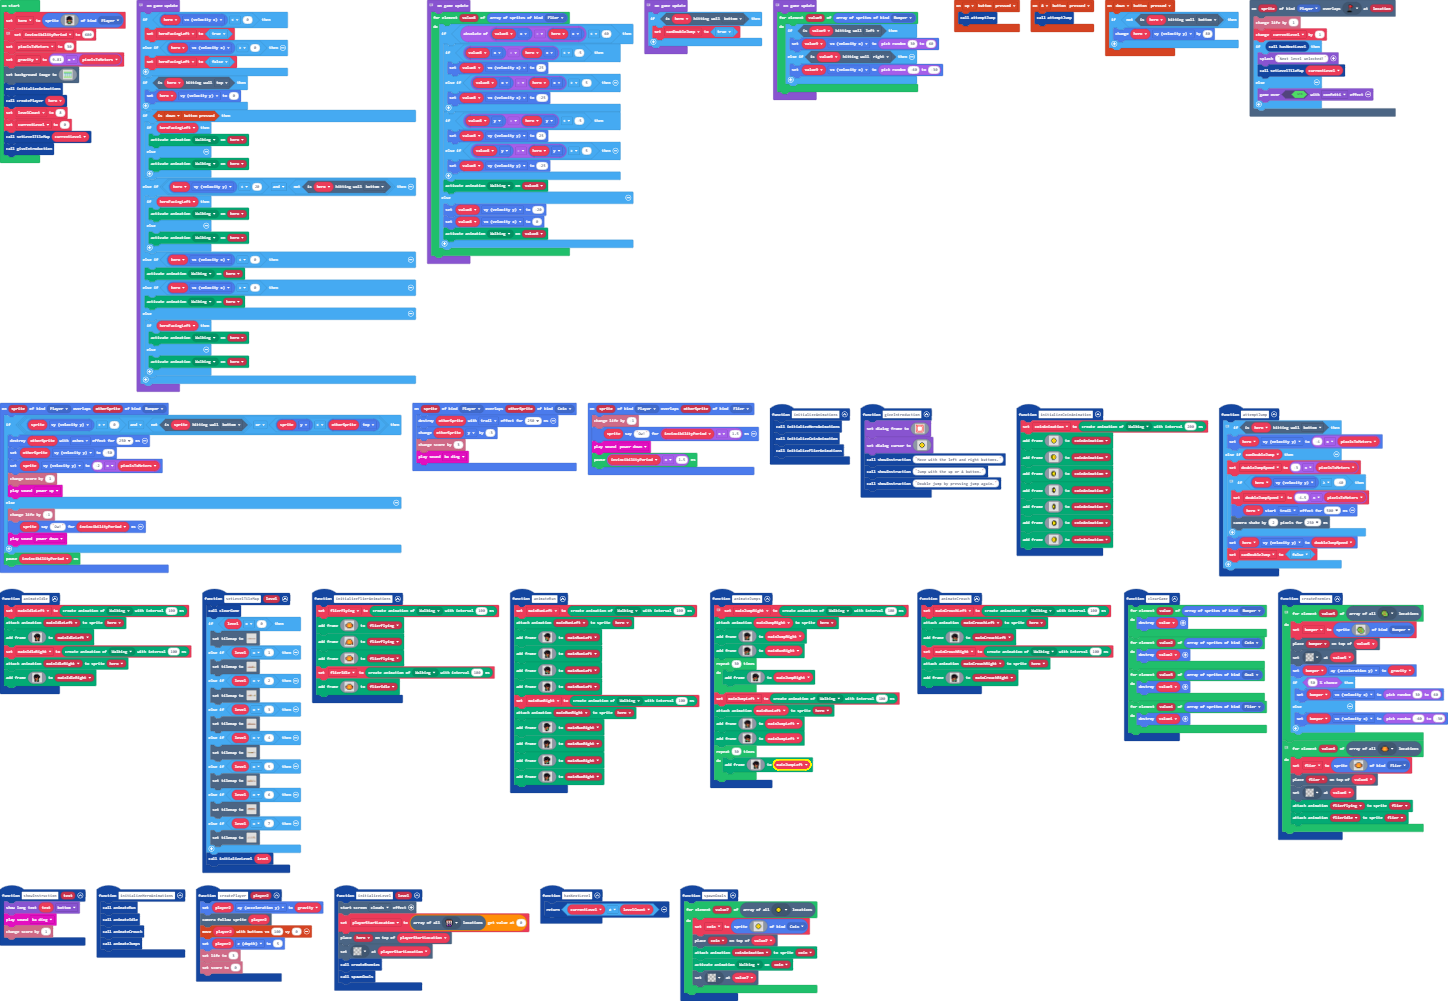
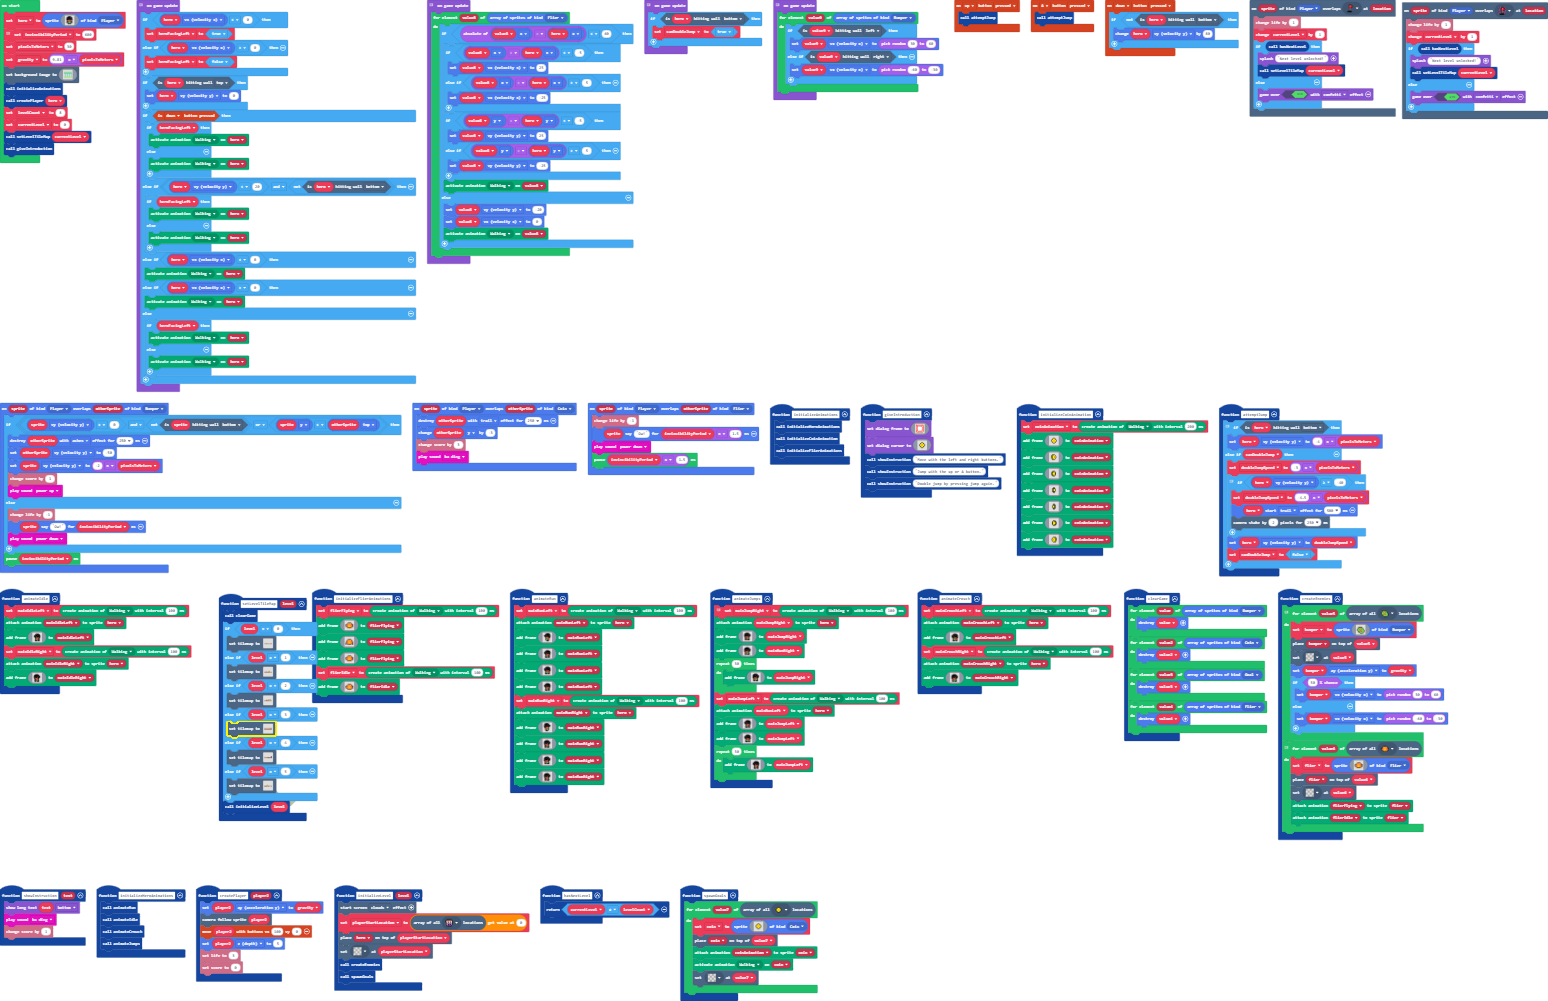
Update main.blocks, main.ts, tilemap.g.jres, tilemap.g.ts

Changed region(s): [[0.0, 0.0, 1.0, 1.0], [0.2486, 0.4955, 0.2797, 0.5574]]

diff --git a/tilemap.g.ts b/tilemap.g.ts
@@ -5,8 +5,6 @@ namespace myTiles {
     //% fixedInstance jres blockIdentity=images._tile
     export const tile0 = image.ofBuffer(hex``);
     //% fixedInstance jres blockIdentity=images._tile
-    export const tile1 = image.ofBuffer(hex``);
-    //% fixedInstance jres blockIdentity=images._tile
     export const tile2 = image.ofBuffer(hex``);
     //% fixedInstance jres blockIdentity=images._tile
     export const tile3 = image.ofBuffer(hex``);
@@ -18,6 +16,12 @@ namespace myTiles {
     export const tile6 = image.ofBuffer(hex``);
     //% fixedInstance jres blockIdentity=images._tile
     export const tile7 = image.ofBuffer(hex``);
+    //% fixedInstance jres blockIdentity=images._tile
+    export const tile8 = image.ofBuffer(hex``);
+    //% fixedInstance jres blockIdentity=images._tile
+    export const tile1 = image.ofBuffer(hex``);
+    //% fixedInstance jres blockIdentity=images._tile
+    export const tile10 = image.ofBuffer(hex``);
 
     helpers._registerFactory("tilemap", function(name: string) {
         switch(helpers.stringTrim(name)) {
@@ -43,50 +47,6 @@ namespace myTiles {
 2 . . . . . . . . . 2 . . 2 . . . . . . . 2 . . . . . . . . . . 
 2 2 2 2 2 2 2 2 2 2 2 . . 2 2 2 2 2 2 2 2 2 2 2 2 2 2 2 2 2 2 2 
 `, [myTiles.tile0,myTiles.tile1,myTiles.tile2,myTiles.tile3,myTiles.tile4,myTiles.tile5,myTiles.tile6], TileScale.Sixteen);
-            case "level_1":
-            case "level_1":return tiles.createTilemap(hex`2000080000000000000000000000000000000000000000060000000000000000060606060000000000000000000000000000000000000000000000000000000000000000000000000000000000000000000000000000000000000000000000000000000000000000000000000000020202020202000000000000000000000000000000000000000000000000020002060303030000000000000000000000000000030303000000000002000002000200030303000000000000000000000000000003030300040002000200000000020003030300000000000000000005000000000303030101010201020101010102010101010101010101010101010101010101010101`, img`
-. . . . . . . . . . . . . . . . . . . . . . . . . . . . . . . . 
-. . . . . . . . . . . . . . . . . . . . . . . . . . . . . . . . 
-. . . . . . . . . . . . . . . . . . . . . . . . . . . . . . . . 
-. . . . . . . . . . 2 2 2 2 2 2 . . . . . . . . . . . . . . . . 
-. . . . . . . . 2 . 2 . . . . . . . . . . . . . . . . . . . . . 
-. . . . . 2 . . 2 . 2 . . . . . . . . . . . . . . . . . . . . . 
-. . . 2 . 2 . . . . 2 . . . . . . . . . . . . . . . . . . . . . 
-2 2 2 2 2 2 2 2 2 2 2 2 2 2 2 2 2 2 2 2 2 2 2 2 2 2 2 2 2 2 2 2 
-`, [myTiles.tile0,myTiles.tile2,myTiles.tile3,myTiles.tile5,myTiles.tile6,myTiles.tile1,myTiles.tile7], TileScale.Sixteen);
-            case "level_2":
-            case "level_2":return tiles.createTilemap(hex`2000080000000000000000000000000300000007000000070000070007000000000000000000000000000000000000030000000000000000000000000000000000000000000000000000000300000003000000000000000000000000000000000000000000000000000300030000000000000000000000000000000000000000000000000000000303030303030303030303030303030303030303030303030303030300000000030000050000050005000005000500000500050000000500000005000000060303010000040004000000040000000000040000000400000004000000030202020302020202020202020202020202020202020202020202020202020203`, img`
-. . . . . . . . . . . 2 . . . . . . . . . . . . . . . . . . . . 
-. . . . . . . . . . . 2 . . . . . . . . . . . . . . . . . . . . 
-. . . . . . . 2 . . . 2 . . . . . . . . . . . . . . . . . . . . 
-. . . . . 2 . 2 . . . . . . . . . . . . . . . . . . . . . . . . 
-. . . 2 2 2 2 2 2 2 2 2 2 2 2 2 2 2 2 2 2 2 2 2 2 2 2 2 2 2 2 . 
-. . . 2 . . . . . . . . . . . . . . . . . . . . . . . . . . . . 
-. . 2 2 . . . . . . . . . . . . . . . . . . . . . . . . . . . 2 
-2 2 2 2 2 2 2 2 2 2 2 2 2 2 2 2 2 2 2 2 2 2 2 2 2 2 2 2 2 2 2 2 
-`, [myTiles.tile0,myTiles.tile1,myTiles.tile2,myTiles.tile3,myTiles.tile4,myTiles.tile5,myTiles.tile6,myTiles.tile7], TileScale.Sixteen);
-            case "level_3":
-            case "level_3":return tiles.createTilemap(hex`2000080000070700000000000000000000000000000000000000000000000000000000000000000000000000000000000000000000000000000000000000000000000000000000000000000000000000000000000000000000000000000000000000000000000000000000000000000000000000000000000000000005050500000000000000000000050005000000000005050000030303030003000000000000000000000000000000000000050505000000050305050505000300000000000000000000060003040404040404030404040404030404040404030000000000000100000202020302020202020203020202020203020202020203020202020202020202`, img`
-. . . . . . . . . . . . . . . . . . . . . . . . . . . . . . . . 
-. . . . . . . . . . . . . . . . . . . . . . . . . . . . . . . . 
-. . . . . . . . . . . . . . . . . . . . . . . . . . . . . . . . 
-. . . . . . . . . . . . . . . . . . . . . . . . . . . . . . . . 
-. . . . . . . . . . . . . . . . . 2 2 2 2 . 2 . . . . . . . . . 
-. . . . . . . . . . . . . . . . 2 . . . . . 2 . . . . . . . . . 
-. . . 2 . . . . . . 2 . . . . . 2 . . . . . 2 . . . . . . . . . 
-2 2 2 2 2 2 2 2 2 2 2 2 2 2 2 2 2 2 2 2 2 2 2 2 2 2 2 2 2 2 2 2 
-`, [myTiles.tile0,myTiles.tile1,myTiles.tile2,myTiles.tile3,myTiles.tile4,myTiles.tile5,myTiles.tile6,myTiles.tile7], TileScale.Sixteen);
-            case "level_4":
-            case "level_4":return tiles.createTilemap(hex`2000080000070700000000000000000000000000000000000707000000000000000000000000000000000000000000000505000000000000000000000000000000000000000000000000000000000000050300000000000000000000000000000000000000000000000000000005050003030000000000000000050505050000000000000000000000050005000303000005050000030303030000000000000000000003030000000003000300050505000000050300000000000000000000000000000303060003000305030400030400000003030004000004000004000000000100030302020302030203020203020202020303020202020202020202020202020203`, img`
-. . . . . . . . . . . . . . . . . . . . . . . . . . . . . . . . 
-. . . . . . . . . . . . . . . . . . . . . . . . . . . . . . . . 
-. . . . . . . . . . . . . 2 . . . . . . . . . . . . . . . . . . 
-. . . . . . . . . . . . 2 2 . . . . . . . . . . . . . . . . . . 
-. . . . . . . . . 2 2 . . . . . . 2 2 2 2 . . . . . . . . . . 2 
-2 . . . . 2 . 2 . . . . . . . . 2 . . . . . . . . . . . . . . 2 
-2 . . 2 . 2 . 2 . . 2 . . . . 2 2 . . . . . . . . . . . . . . 2 
-2 2 2 2 2 2 2 2 2 2 2 2 2 2 2 2 2 2 2 2 2 2 2 2 2 2 2 2 2 2 2 2 
-`, [myTiles.tile0,myTiles.tile1,myTiles.tile2,myTiles.tile3,myTiles.tile4,myTiles.tile5,myTiles.tile6,myTiles.tile7], TileScale.Sixteen);
             case "level_5":
             case "level_5":return tiles.createTilemap(hex`27000800000000000606060606060606060606060606060606060606060606060606060606000003000000000003030303030303030303030303030303030303030303030303030303030303000003000000000000000000000000000000000000000000000000000000000000000000000000000003000000000000000006060606030400000000000400000004000004000004000004000000000003000000000000000003030303030303030303030303030303030303030303030303030303030303000000030000000000000000000000000000000000000000000000000000000000000000000000000000030500000004040000000000000406060606060604000606060600000000000000000000000100030202020202020202020202020202020202020202020202020202020202020202020202020202`, img`
 ...................................2...
@@ -109,6 +69,88 @@ namespace myTiles {
 2 . . . . . . . . . . . . . . . . . . . . . . . . . . . . . . . . . . . . 
 2 2 2 2 2 2 2 2 2 2 2 2 2 2 2 2 2 2 2 2 2 2 2 2 2 2 2 2 2 2 2 2 2 2 2 2 2 
 `, [myTiles.tile0,myTiles.tile1,myTiles.tile2,myTiles.tile3,myTiles.tile6,myTiles.tile5,myTiles.tile4,myTiles.tile7], TileScale.Sixteen);
+            case "level_4":
+            case "level_4":return tiles.createTilemap(hex`2000080000000000000000000000000000000000000000000000000000000000000000000000000000000000000000000505000000000000000000000000000000000000000000000000000000000000050300000000000000000000000000000000000000000000000000000005050003030000000000000000050505050000000000000000000000050005000303000005050000030303030000000000000000000003030000000003000300050505000000050300000000000000000000000000000303060003000305030400030400000003030004000004000004000000000100030302020302030203020203020202020303020202020202020202020202020203`, img`
+. . . . . . . . . . . . . . . . . . . . . . . . . . . . . . . . 
+. . . . . . . . . . . . . . . . . . . . . . . . . . . . . . . . 
+. . . . . . . . . . . . . 2 . . . . . . . . . . . . . . . . . . 
+. . . . . . . . . . . . 2 2 . . . . . . . . . . . . . . . . . . 
+. . . . . . . . . 2 2 . . . . . . 2 2 2 2 . . . . . . . . . . 2 
+2 . . . . 2 . 2 . . . . . . . . 2 . . . . . . . . . . . . . . 2 
+2 . . 2 . 2 . 2 . . 2 . . . . 2 2 . . . . . . . . . . . . . . 2 
+2 2 2 2 2 2 2 2 2 2 2 2 2 2 2 2 2 2 2 2 2 2 2 2 2 2 2 2 2 2 2 2 
+`, [myTiles.tile0,myTiles.tile1,myTiles.tile2,myTiles.tile3,myTiles.tile4,myTiles.tile5,myTiles.tile6], TileScale.Sixteen);
+            case "level_1":
+            case "level_1":return tiles.createTilemap(hex`2000080000000000000000000000000000000000000000000000000000000000000000000000000000060000000000000000000000000000000000000000000000000000000000000000000000000000000000000202020202020202020202020200000000000000000000000000020202020000000200000000000000000000000000000000000000000000020002030303000000020000000000030303000000000000000000000002030002000203030300020002000000000003000300000000000000040002000203000000020303030002060206000600000305030006000600000101010201020101010102010101010101020101010101010101010101010101`, img`
+. . . . . . . . . . . . . . . . . . . . . . . . . . . . . . . . 
+. . . . . . . . . . . . . . . . . . . . . . . . . . . . . . . . 
+. . . . . . . . . . . . . . . . 2 2 2 2 2 2 2 2 2 2 2 2 2 . . . 
+. . . . . . . . . . 2 2 2 2 . . . 2 . . . . . . . . . . . . . . 
+. . . . . . . . 2 . 2 . . . . . . 2 . . . . . . . . . . . . . . 
+. . . . . 2 . . 2 . 2 . . . . 2 . 2 . . . . . . . . . . . . . . 
+. . . 2 . 2 . . . . 2 . . . . 2 . 2 . . . . . . . . . . . . . . 
+2 2 2 2 2 2 2 2 2 2 2 2 2 2 2 2 2 2 2 2 2 2 2 2 2 2 2 2 2 2 2 2 
+`, [myTiles.tile0,myTiles.tile2,myTiles.tile3,myTiles.tile5,myTiles.tile6,myTiles.tile1,myTiles.tile4], TileScale.Sixteen);
+            case "level_3":
[1 lines of base64/hex data omitted]
+. . . . . . . . . . . . . . . . . . . . . . . . . . . . . . . . 
+. . . . . . . . . . . . . . . . . . . . . . . . . . . . . . . . 
+. . . . . . . . . . . . . . . . . . . . . . . . . . . . . . . . 
+. . . . . . . . . . . . . . . . . . . . . . . . . . . . . . . . 
+. . . . . . . . . . . . . . . . . 2 2 2 2 . 2 . . . . . . . . . 
+. . . . . . . . . . . . . 2 2 . 2 . . . . . 2 . . . . . . . . . 
+. . . 2 . . . . . . 2 . . . . . 2 . . . . . 2 . . . . . . . . 2 
+2 2 2 2 2 2 2 2 2 2 2 2 2 2 2 2 2 2 2 2 2 2 2 2 2 2 2 2 2 2 2 2 
+`, [myTiles.tile0,myTiles.tile2,myTiles.tile3,myTiles.tile4,myTiles.tile5,myTiles.tile6,myTiles.tile7,sprites.dungeon.darkGroundNorthWest1,sprites.dungeon.darkGroundSouthEast1,sprites.dungeon.floorLight5,sprites.dungeon.floorLight4,sprites.dungeon.floorLightMoss,sprites.dungeon.doorClosedNorth,myTiles.tile8,myTiles.tile10], TileScale.Sixteen);
+            case "level_2":
+            case "level_2":return tiles.createTilemap(hex`2000080000000000000000000000000300000007000000000000000007000000000000000003030000000000000000030000000000000000000000000000000005030000000000000000000300000003000000000000000000000000000000000503000000000000000300030000000000000003050505030505030503050503050300000000000303030303030303030303030303030303030303030303030303030300000000030000050000050005000005000500000500050000000500000005000000060303010000040004000000040003000400030400030403000403000000030202020302020202020202020202020302020203020203020302020302020203`, img`
+. . . . . . . . . . . 2 . . . . . . . . . . . . . . . . . . . . 
+. 2 2 . . . . . . . . 2 . . . . . . . . . . . . . . . . . 2 . . 
+. . . . . . . 2 . . . 2 . . . . . . . . . . . . . . . . . 2 . . 
+. . . . . 2 . 2 . . . . . . . 2 . . . 2 . . 2 . 2 . . 2 . 2 . . 
+. . . 2 2 2 2 2 2 2 2 2 2 2 2 2 2 2 2 2 2 2 2 2 2 2 2 2 2 2 2 . 
+. . . 2 . . . . . . . . . . . . . . . . . . . . . . . . . . . . 
+. . 2 2 . . . . . . . . . . . 2 . . . 2 . . 2 . 2 . . 2 . . . 2 
+2 2 2 2 2 2 2 2 2 2 2 2 2 2 2 2 2 2 2 2 2 2 2 2 2 2 2 2 2 2 2 2 
+`, [myTiles.tile0,myTiles.tile1,myTiles.tile2,myTiles.tile3,myTiles.tile4,myTiles.tile5,myTiles.tile6,myTiles.tile7], TileScale.Sixteen);
+            case "level1":
+            case "level1":return tiles.createTilemap(hex`1000100000000000000000000000000000000000000000000000000000000000000000000000000000000000000000000000000000000000000000000000000000000000000000000000000000000000000000000000000000000000000000000000000000000000000000000000000000000000000000000000000000000000000000000000000000000000000000000000000000000000000000000000000000000000000000000000000000000000000000000000000000000000000000000000000000000000000000000000000000000000000000000000000000000000000000000000000000000000000000000000000000000000000000000000000000000000`, img`
+. . . . . . . . . . . . . . . . 
+. . . . . . . . . . . . . . . . 
+. . . . . . . . . . . . . . . . 
+. . . . . . . . . . . . . . . . 
+. . . . . . . . . . . . . . . . 
+. . . . . . . . . . . . . . . . 
+. . . . . . . . . . . . . . . . 
+. . . . . . . . . . . . . . . . 
+. . . . . . . . . . . . . . . . 
+. . . . . . . . . . . . . . . . 
+. . . . . . . . . . . . . . . . 
+. . . . . . . . . . . . . . . . 
+. . . . . . . . . . . . . . . . 
+. . . . . . . . . . . . . . . . 
+. . . . . . . . . . . . . . . . 
+. . . . . . . . . . . . . . . . 
+`, [myTiles.transparency16], TileScale.Sixteen);
+            case "level2":
+            case "level2":return tiles.createTilemap(hex`1000100000000000000000000000000000000000000000000000000000000000000000000000000000000000000000000000000000000000000000000000000000000000000000000000000000000000000000000000000000000000000000000000000000000000000000000000000000000000000000000000000000000000000000000000000000000000000000000000000000000000000000000000000000000000000000000000000000000000000000000000000000000000000000000000000000000000000000000000000000000000000000000000000000000000000000000000000000000000000000000000000000000000000000000000000000000000`, img`
+. . . . . . . . . . . . . . . . 
+. . . . . . . . . . . . . . . . 
+. . . . . . . . . . . . . . . . 
+. . . . . . . . . . . . . . . . 
+. . . . . . . . . . . . . . . . 
+. . . . . . . . . . . . . . . . 
+. . . . . . . . . . . . . . . . 
+. . . . . . . . . . . . . . . . 
+. . . . . . . . . . . . . . . . 
+. . . . . . . . . . . . . . . . 
+. . . . . . . . . . . . . . . . 
+. . . . . . . . . . . . . . . . 
+. . . . . . . . . . . . . . . . 
+. . . . . . . . . . . . . . . . 
+. . . . . . . . . . . . . . . . 
+. . . . . . . . . . . . . . . . 
+`, [myTiles.transparency16], TileScale.Sixteen);
         }
         return null;
     })
@@ -117,13 +159,16 @@ namespace myTiles {
         switch(helpers.stringTrim(name)) {
             case "transparency16":return transparency16;
             case "tile0":return tile0;
-            case "tile1":return tile1;
             case "tile2":return tile2;
             case "tile3":return tile3;
             case "tile4":return tile4;
             case "tile5":return tile5;
             case "tile6":return tile6;
             case "tile7":return tile7;
+            case "tile8":return tile8;
+            case "tile1":return tile1;
+            case "myTile0":
+            case "tile10":return tile10;
         }
         return null;
     })

diff --git a/main.ts b/main.ts
@@ -288,10 +288,6 @@ function setLevelTileMap (level: number) {
         tiles.setTilemap(tilemap`level_3`)
     } else if (level == 5) {
         tiles.setTilemap(tilemap`level_4`)
-    } else if (level == 6) {
-        tiles.setTilemap(tilemap`level_5`)
-    } else if (level == 7) {
-        tiles.setTilemap(tilemap`level_6`)
     }
     initializeLevel(level)
 }
@@ -701,6 +697,16 @@ function clearGame () {
         value4.destroy()
     }
 }
+scene.onOverlapTile(SpriteKind.Player, assets.tile`tile8`, function (sprite, location) {
+    info.changeLifeBy(1)
+    currentLevel += 1
+    if (hasNextLevel()) {
+        game.splash("Next level unlocked!")
+        setLevelTileMap(currentLevel)
+    } else {
+        game.over(true, effects.confetti)
+    }
+})
 scene.onOverlapTile(SpriteKind.Player, assets.tile`tile1`, function (sprite, location) {
     info.changeLifeBy(1)
     currentLevel += 1
